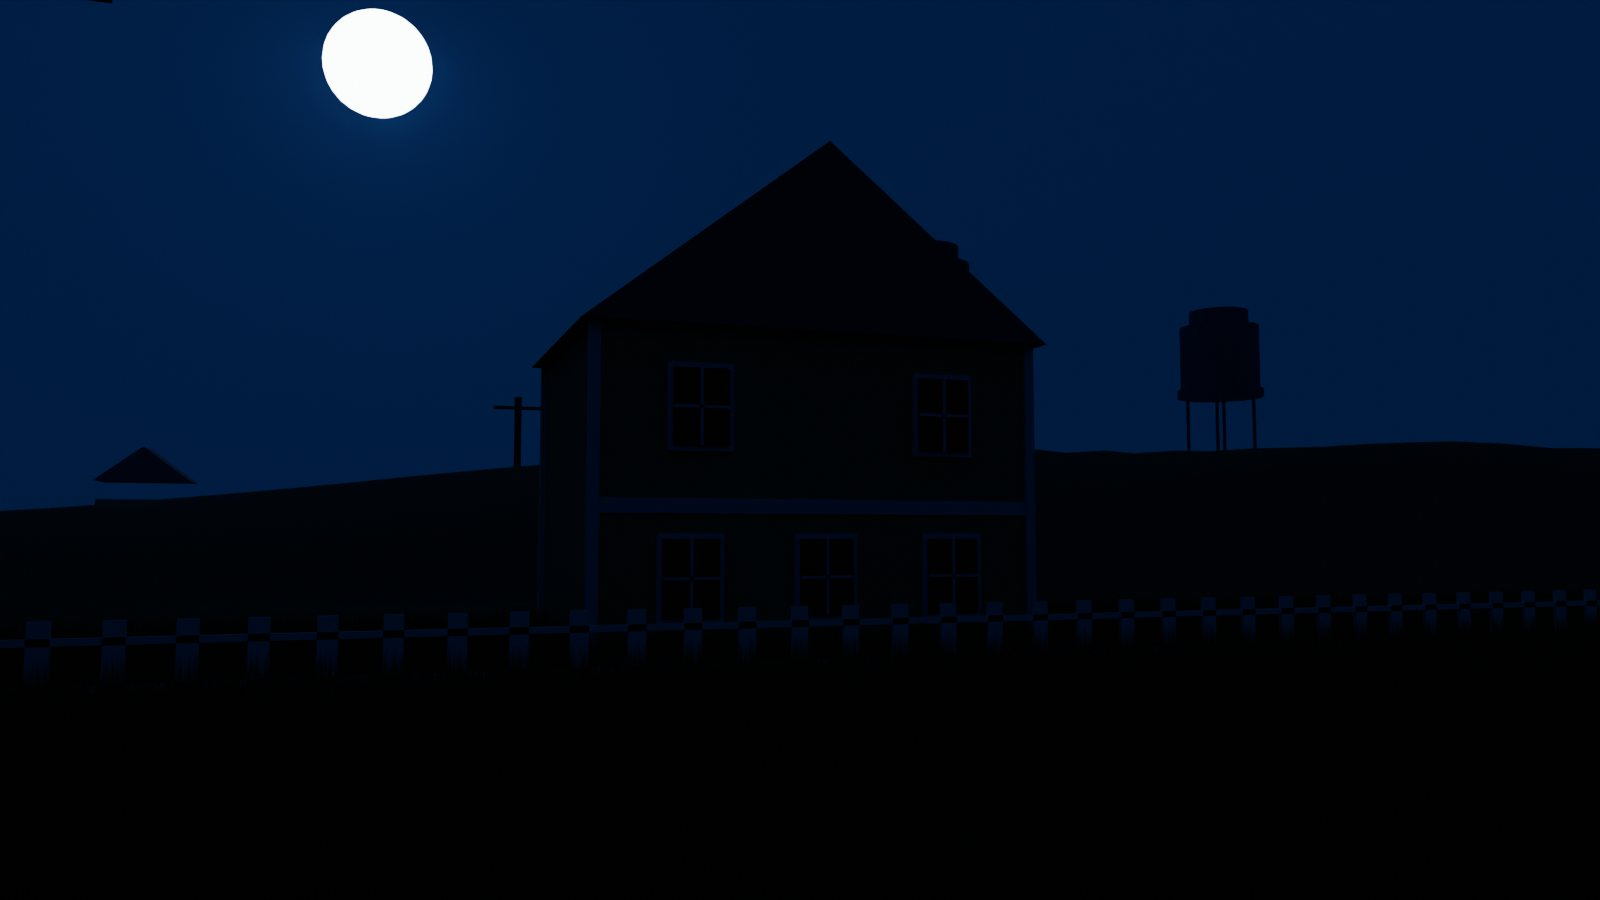
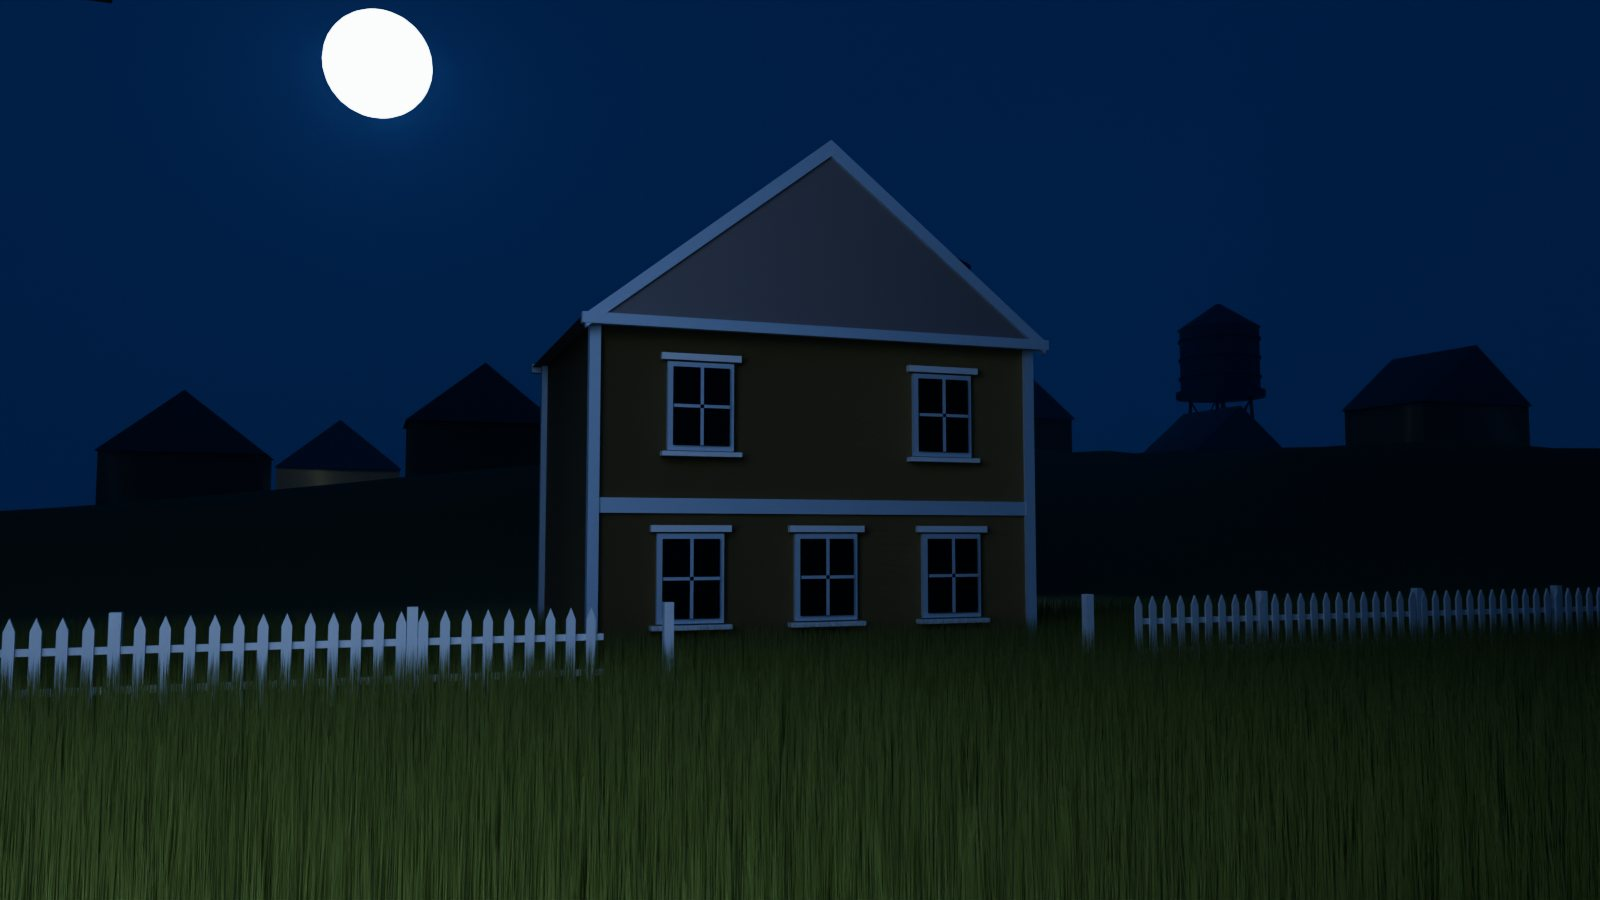
壁紙Bの画像を差し替え（仕上げ直し版）
Claude-Session: https://claude.ai/code/session_01VbeSFV8R1GEdNeAFVnDtax

diff --git a/games/horror-arg/STATUS.md b/games/horror-arg/STATUS.md
@@ -1,6 +1,6 @@
 # ホラーARGゲーム（仮題「投稿受付中」） 状況メモ
 
-最終更新：2026-10-19（第26版：Blenderで作った壁紙4枚（`wallpaper/make_wall.py`、画像は `web/wallpaper_b_*.jpg`）を、タスクバーの🖼ボタンでChatGPT版（A）と切り替えられるようにした（選択はlocalStorage）。壁紙を日ごとに切り替え（1〜2日目 黄色いもや `wallpaper.jpg`／3〜4日目 夜 `wallpaper_night.jpg`／5日目 赤 `wallpaper_red.jpg`／最後の投稿を開いたときだけ窓に明かり `wallpaper_lit.jpg`）。画像はひかるがChatGPTで作成。ひかるの見本（本物の怪談サイト）に合わせて、公開サイトをランキング形式のブラウザ窓に作り直し（前任者の投稿10本を公開済みにした `web/data3.js`）、管理画面を暗い配色に、壁紙（夕暮れの家）・ごみ箱等のアイコン・通知領域を追加。「作る係・撮る係・批評係」で2回直した（CLAUDE.mdに流れを追記）。第25版：PCのClaude Code＋BlenderMCPで続けるため、`HANDOFF.md` を作った。第24版：3D部屋の質感を、Substance Painter風のプロシージャル（SubstanceWear 1グループ）にした。第23版：3D部屋の第1版ができた `room/`（Blender→glb、試し描きで参考絵と配置が一致）。第22版：3D部屋の参考絵5枚を `room/reference/` に保存、`room/PLAN.md` を作った（Blender 4.2.9をこの環境に入れた：/opt/blender-dl/）。第21版：検索を本物らしくした（検索エンジン名「ヨルサガシ」、画像・動画・ニュースのタブ、動画ページ）。第20版：段階4（外のサイト・隠し文字つき写真・ずらし暗号・効果音の追加）。外のサイト https://claude.ai/artifact/KS4JomkiykW6ebpH7qTMae 。第19版：名前を使わない形のH×H風の言葉遊びを9個に増やした。第18版：H×Hの言葉遊びを、名前をそのまま使わない形に直した（寝てろ会長・元・手品師・赤ランプの人）。第17版：H×Hの言葉遊びを3個入れた（一覧は data2.js の parodies）。第16版：検索結果のページに閲覧数・反応・コメント・関連ページを追加。第15版：スキル ui-ux-pro-max で点検し、小さな直しを入れた（文字の濃さ・12px以上・キーボードの目印・動きを減らす設定・押しやすさ）。スマホ版は程々でよい（ひかる指示：スマホでのリリース予定なし）。第14版：スマホで遊べるようにした（タップ操作・画面いっぱいの窓）。claude.aiのページとして公開。第13版：全部の怪談に調べられる物を用意し、本文に下線リンクを付けた。第12版：段階3（メール・公開サイトの読者コメント・偽の検索「さがす」・ひとこと）を作った。第11版：日数を1日増やして5日構成にし、ギミックを日ごとに散らした。第10版：ギミック9種を全部入れた `web/gimmicks.js`。第9版：段階2（2日目〜終章・3エンディング・謎6つ・合言葉決定）をブラウザ版に作った。第8版：ブラウザ版の段階1を作った `web/`。第7版：ARG要素をA/B/C段に拡張、時間の上限なしに。第6版：偽の検索サイトを追加。第5版：長さを約1時間・16本に決めた。第4版：F「怪談投稿サイトの管理人」に決定。企画書 `DESIGN.md` の下半分に詳細を書いた）
+最終更新：2026-10-19（第26版：壁紙Bを仕上げ直した（家の板張り・屋根と破風板・窓台・先のとがった柵・補強つきの給水塔・遠くの家7軒・夜と赤で家が見える補助光・手前の草を明るく）。Blenderで作った壁紙4枚（`wallpaper/make_wall.py`、画像は `web/wallpaper_b_*.jpg`）を、タスクバーの🖼ボタンでChatGPT版（A）と切り替えられるようにした（選択はlocalStorage）。壁紙を日ごとに切り替え（1〜2日目 黄色いもや `wallpaper.jpg`／3〜4日目 夜 `wallpaper_night.jpg`／5日目 赤 `wallpaper_red.jpg`／最後の投稿を開いたときだけ窓に明かり `wallpaper_lit.jpg`）。画像はひかるがChatGPTで作成。ひかるの見本（本物の怪談サイト）に合わせて、公開サイトをランキング形式のブラウザ窓に作り直し（前任者の投稿10本を公開済みにした `web/data3.js`）、管理画面を暗い配色に、壁紙（夕暮れの家）・ごみ箱等のアイコン・通知領域を追加。「作る係・撮る係・批評係」で2回直した（CLAUDE.mdに流れを追記）。第25版：PCのClaude Code＋BlenderMCPで続けるため、`HANDOFF.md` を作った。第24版：3D部屋の質感を、Substance Painter風のプロシージャル（SubstanceWear 1グループ）にした。第23版：3D部屋の第1版ができた `room/`（Blender→glb、試し描きで参考絵と配置が一致）。第22版：3D部屋の参考絵5枚を `room/reference/` に保存、`room/PLAN.md` を作った（Blender 4.2.9をこの環境に入れた：/opt/blender-dl/）。第21版：検索を本物らしくした（検索エンジン名「ヨルサガシ」、画像・動画・ニュースのタブ、動画ページ）。第20版：段階4（外のサイト・隠し文字つき写真・ずらし暗号・効果音の追加）。外のサイト https://claude.ai/artifact/KS4JomkiykW6ebpH7qTMae 。第19版：名前を使わない形のH×H風の言葉遊びを9個に増やした。第18版：H×Hの言葉遊びを、名前をそのまま使わない形に直した（寝てろ会長・元・手品師・赤ランプの人）。第17版：H×Hの言葉遊びを3個入れた（一覧は data2.js の parodies）。第16版：検索結果のページに閲覧数・反応・コメント・関連ページを追加。第15版：スキル ui-ux-pro-max で点検し、小さな直しを入れた（文字の濃さ・12px以上・キーボードの目印・動きを減らす設定・押しやすさ）。スマホ版は程々でよい（ひかる指示：スマホでのリリース予定なし）。第14版：スマホで遊べるようにした（タップ操作・画面いっぱいの窓）。claude.aiのページとして公開。第13版：全部の怪談に調べられる物を用意し、本文に下線リンクを付けた。第12版：段階3（メール・公開サイトの読者コメント・偽の検索「さがす」・ひとこと）を作った。第11版：日数を1日増やして5日構成にし、ギミックを日ごとに散らした。第10版：ギミック9種を全部入れた `web/gimmicks.js`。第9版：段階2（2日目〜終章・3エンディング・謎6つ・合言葉決定）をブラウザ版に作った。第8版：ブラウザ版の段階1を作った `web/`。第7版：ARG要素をA/B/C段に拡張、時間の上限なしに。第6版：偽の検索サイトを追加。第5版：長さを約1時間・16本に決めた。第4版：F「怪談投稿サイトの管理人」に決定。企画書 `DESIGN.md` の下半分に詳細を書いた）
 
 ## 決まったこと
 - Steam販売、Godot 4、偽デスクトップ形式、**1周約1時間**（隠し込みで1時間15分まで）・500〜800円。投稿は16本
@@ -8,7 +8,7 @@
 - 声は使わず、文章と効果音で作る。外のサイトは「おまけの真相」
 
 ## 進行中・次にやること
-- **壁紙A/B**：ひかるがどちらを標準にするか決める。Blender版を仕上げるなら、手前の草・板張り・屋根のふち・柵と給水塔の細かさ（`wallpaper/make_wall.py`）。
+- **壁紙A/B**：ひかるはBのほうが好みと言った。Bを標準にするか決める（`wallpaper/make_wall.py`）。さらに詰めるなら、遠くの家の窓・煙突、空の雲。
 - **第26版の批評（2回）で残った指摘**：管理画面は表形式（ヘッダー・チェックボックス・絞り込み）にするともっと本物らしい／サムネイルは絵柄が少ない（ひかるが写真を渡せば差し替え）／壁紙はひかるの見本どおりの絵柄。次は、ひかるが見て直したい所を伝える。
 - **引き継ぎ**：続きはPCで。`HANDOFF.md`（準備の手順と、最初に貼るメッセージ）を読む。
 - **3D部屋の質感（第2版）**：汚しの共通ノードグループ。段階1〜4。次は、細部（形）と、Godotへの焼き込み。`room/README.md`
